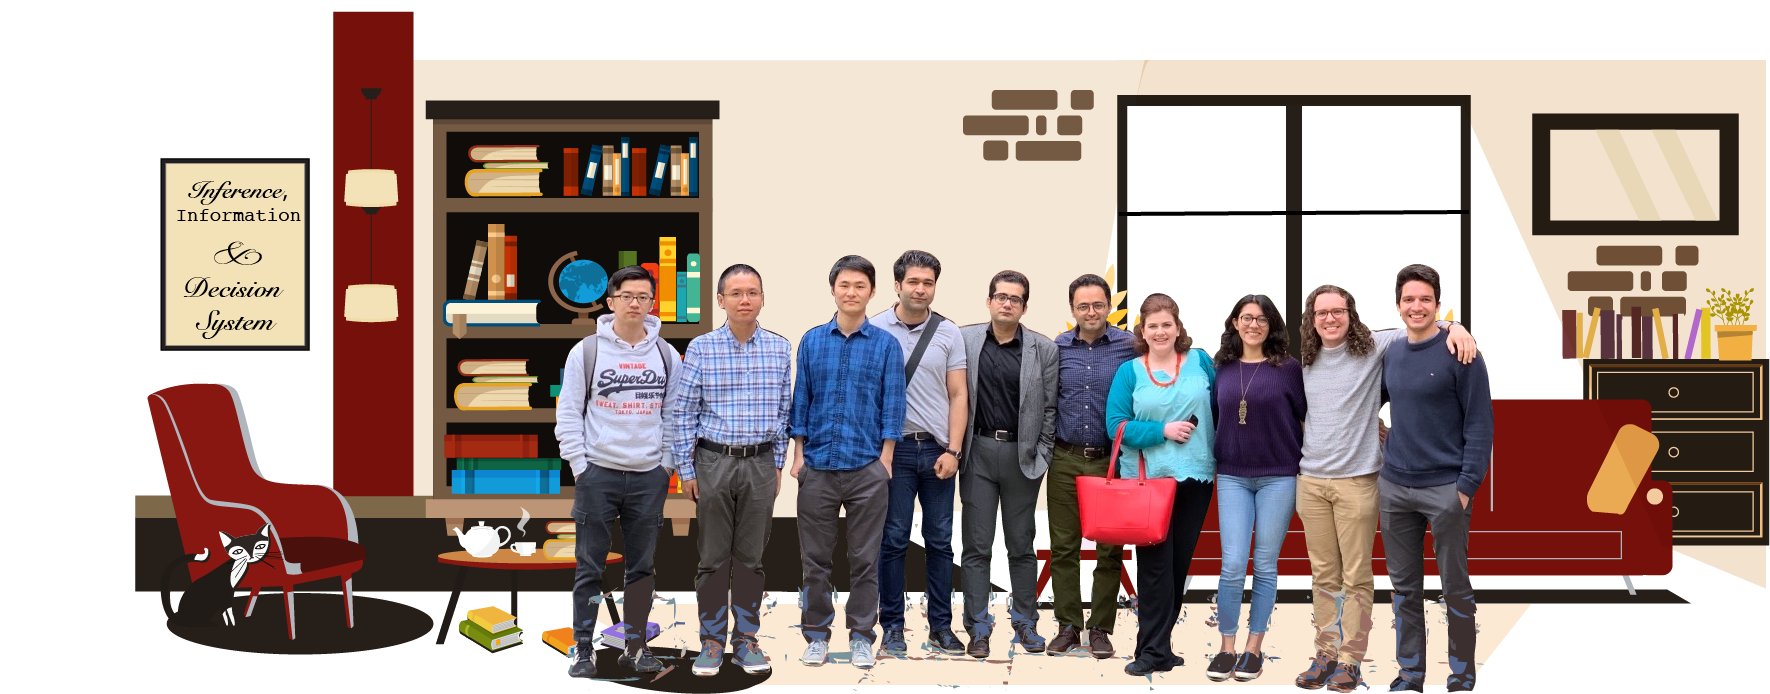
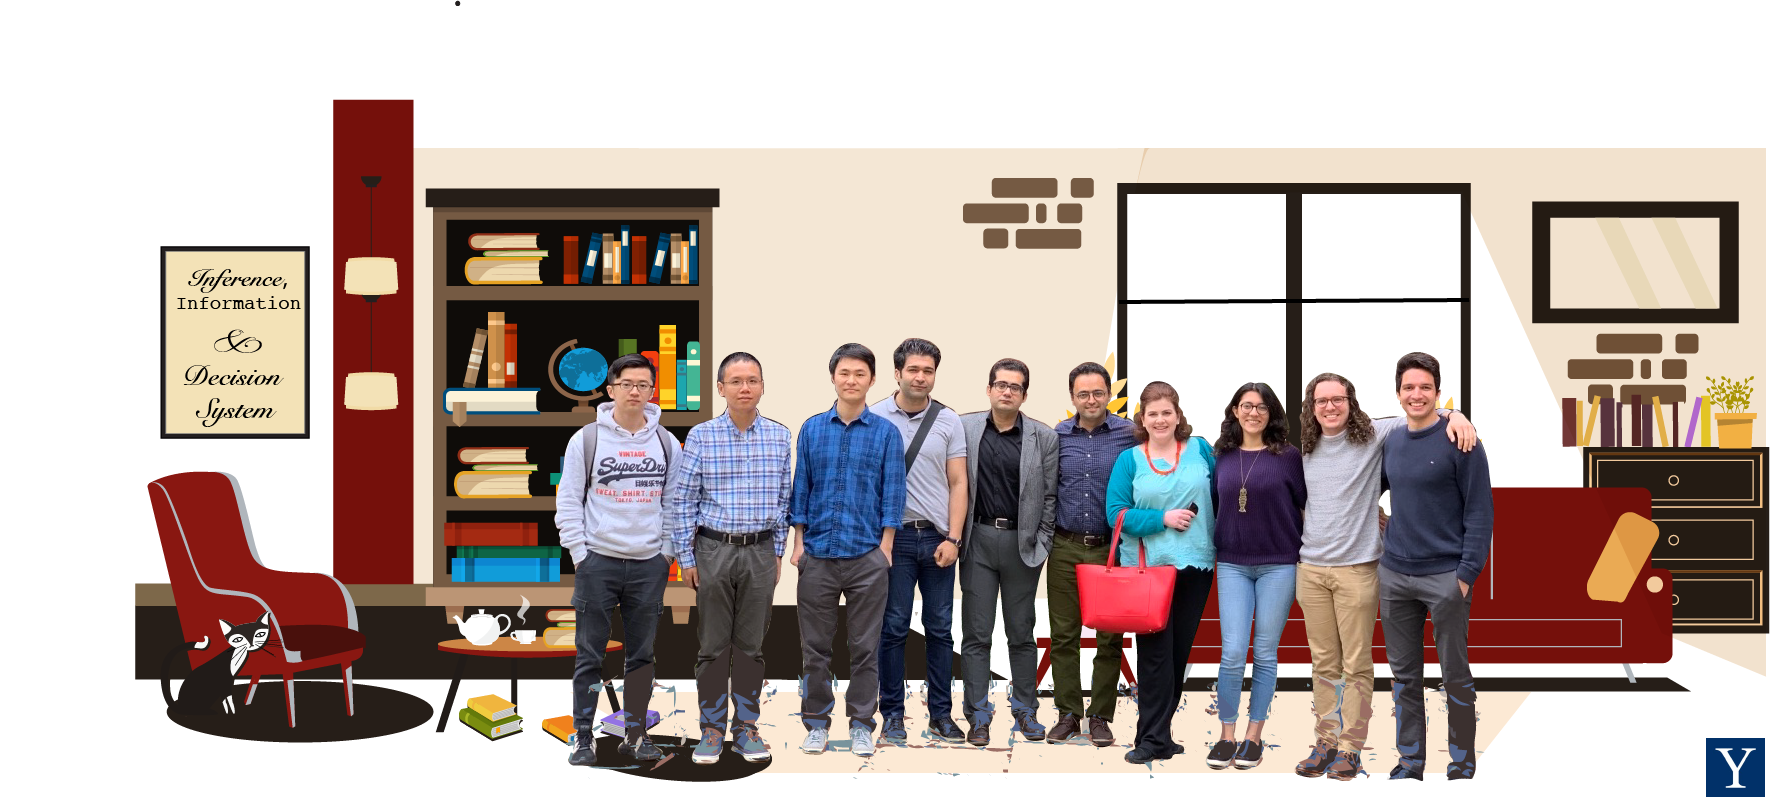
rebuilding site Thu Apr 23 03:43:32 EDT 2020

diff --git a/css/style.min.css b/css/style.min.css
@@ -1,4 +1,5 @@
 *,*:after,*:before{box-sizing:inherit}html{box-sizing:border-box;font-size:62.5%}body{display:flex;color:#323232;background-color:#fefefe;font-family:'Baloo Chettan 2', cursive;;font-size:1.6em;font-weight:400;letter-spacing:.0625em;line-height:1.8em}
+.yale img{src="yale-logo.jpg"}
 @media only screen and (min-device-width:320px) and (max-device-width:480px){body{font-size:1.4em;line-height:1.6em}}a{font-weight:700;color:#000;text-decoration:none}a:focus,a:hover{text-decoration:underline}p{font-family:'Baloo Chettan 2';margin:1.6rem 0 1.6rem 0}p a{font-weight:400;color:#000;text-decoration:underline;text-underline-position:under}p a:focus,p a:hover{color:#36c}h1,h2,h3,h4,h5,h6{color:#000;text-transform:uppercase;letter-spacing:.0625em;margin:3.2rem 0 1.6rem 0}h1{font-size:1.5rem;line-height:3.2rem}
 @media only screen and (min-device-width:320px) and (max-device-width:480px){h1{font-size:2.2rem;line-height:1.5rem}}h2{font-size:0.9rem;line-height:2.8rem}
 @media only screen and (min-device-width:320px) and (max-device-width:480px){h2{font-size:0.9rem;line-height:2.9rem}}h3{font-size:0.7rem;line-height:2.4rem}

diff --git a/index.html b/index.html
@@ -236,7 +236,7 @@
         <li class="social-item">
           <a href="https://www.yale.edu" aria-label="Yale" >
             
-              <i class="fab fa-y-combinator" aria-hidden="true"></i>
+              <img src="/images/yale-logo.jpg" style="max-width:2.8rem;margin-bottom:-3%"/>
             
           </a>
         </li>

diff --git a/page/2/index.html b/page/2/index.html
@@ -236,7 +236,7 @@
         <li class="social-item">
           <a href="https://www.yale.edu" aria-label="Yale" >
             
-              <i class="fab fa-y-combinator" aria-hidden="true"></i>
+              <img src="/images/yale-logo.jpg" style="max-width:2.8rem;margin-bottom:-3%"/>
             
           </a>
         </li>
